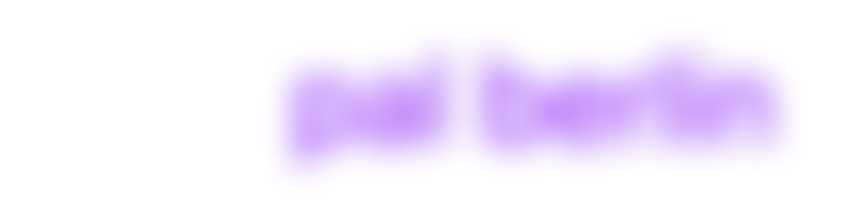
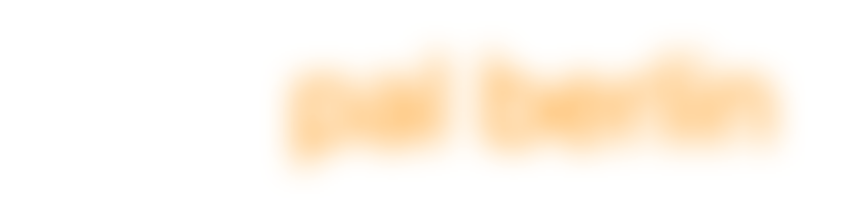
orange

Changed region(s): [[0.3037, 0.2376, 0.9416, 0.8614]]

diff --git a/src/routes/login/+page.svelte b/src/routes/login/+page.svelte
@@ -62,7 +62,7 @@
 <style>
   .about-short {
     font-size: 1rem;
-    color: #543075;
+    color: var(--color-1);
     background: #f7f4fc;
     border-radius: 8px;
     padding: 0.75em 1em;
@@ -119,7 +119,7 @@
     background: #fff;
   }
   .main-btn {
-    background: var(--color-1, #1976d2);
+    background: var(--color-1, #222);
     color: #fff;
     border: none;
     border-radius: 10px;
@@ -135,7 +135,7 @@
     gap: 8px;
   }
   .main-btn:hover:not([disabled]) {
-    background: #6f00bb;
+    background: var(--color-2);
   }
   .main-btn[disabled],
   input[disabled] {
@@ -147,7 +147,7 @@
     width: 18px;
     height: 18px;
     border: 2.5px solid #fff;
-    border-top: 2.5px solid #b871e7;
+    border-top: 2.5px solid var(--color-2);
     border-radius: 50%;
     animation: spin 0.7s linear infinite;
     margin-right: 3px;

diff --git a/static/style.css b/static/style.css
@@ -1,6 +1,8 @@
 html {
   --color-1: #ffa200;
-  --color-1: #9000ff;
+  --color-2: #ae6e00;
+
+  /* --color-1: #9000ff; */
 }
 
 ::selection {
